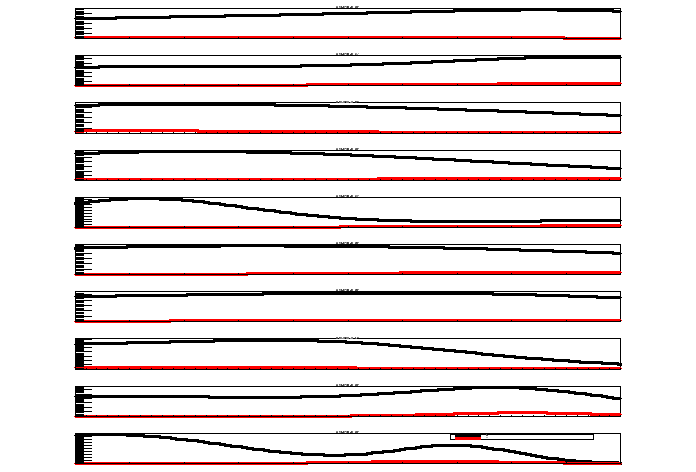
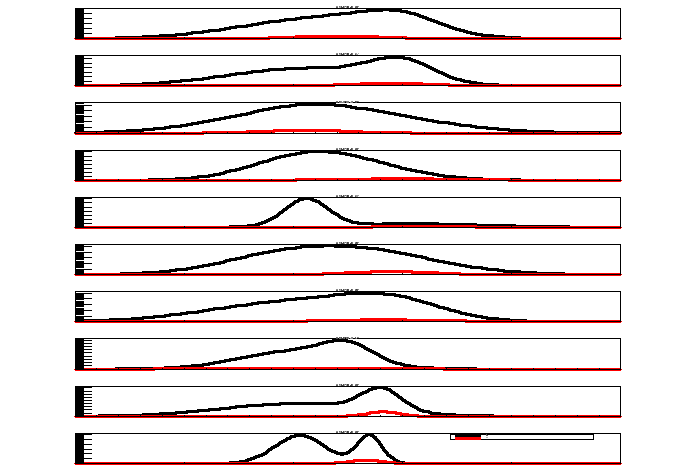
Problems fixed on multidim example, now likelihood working

diff --git a/DecomposingTestOfMixtureModelsClassifier.py b/DecomposingTestOfMixtureModelsClassifier.py
@@ -216,7 +216,7 @@ def makeModelND():
   #w.factory("MultiVarGaussian::f0({{{0}}},{{{1}}},cov2)".format(gaus_vars_string,mu2))
   argus = ROOT.RooArgList() 
   for i,var in enumerate(vars_g):
-    w.factory('{0}[{1},{2}]'.format(var,0,5))
+    w.factory('{0}[{1},{2}]'.format(var,-10,15))
     argus.add(w.var(var))
 
   vec1 = ROOT.TVectorD(len(vars_g))
@@ -688,7 +688,7 @@ def singleRatio(x,f0,f1,val):
     v.setVal(val[i])
     v = iter.Next()
     i = i+1
-  if f0.getVal(x) < 10E-35:
+  if f0.getVal(x) == 0.:
     return 0.
   return f1.getVal(x) / f0.getVal(x)
   #return f0.getVal(ROOT.RooArgSet(x))
@@ -712,7 +712,7 @@ def regFunc(x,f0,f1,val):
     v.setVal(val[i])
     v = iter.Next()
     i = i+1
-  if (f0.getVal(x) + f1.getVal(x)) < 10E-35:
+  if (f0.getVal(x) + f1.getVal(x)) == 0.:
     return 0.
   return f1.getVal(x) / (f0.getVal(x) + f1.getVal(x))
 
@@ -791,8 +791,12 @@ def evaluateDecomposedRatio(w,x,evalData,plotting=True, roc=False,gridsize=None,
         #saveFig(testdata, [reg, outputs],  makePlotName('dec','train',k,j,type='mul_scat'),scatter=True,labels=['regression', 'score'])
 
       #saveFig(xarray, ratios, makePlotName('decomposed','truth',k,j,type='ratio'))
-    fullRatios += 1./innerRatios
-    fullRatiosReal += 1./innerTrueRatios
+    innerRatios = 1./innerRatios
+    innerRatios[innerRatios == np.inf] = 0.
+    fullRatios += innerRatios
+    innerTrueRatios = 1./innerTrueRatios
+    innerTrueRatios[innerTrueRatios == np.inf] = 0.
+    fullRatiosReal += innerTrueRatios
   return fullRatios,fullRatiosReal
 
 def fitAdaptive(use_log=False):
@@ -950,8 +954,6 @@ def evalC1Likelihood(use_log=False):
         labels=['decomposed','true'],axis=['c1[0]','-ln(L)'],marker=True)
 
   #w.Print()
-
-
 
 def evalC1C2Likelihood(use_log=False):
 
